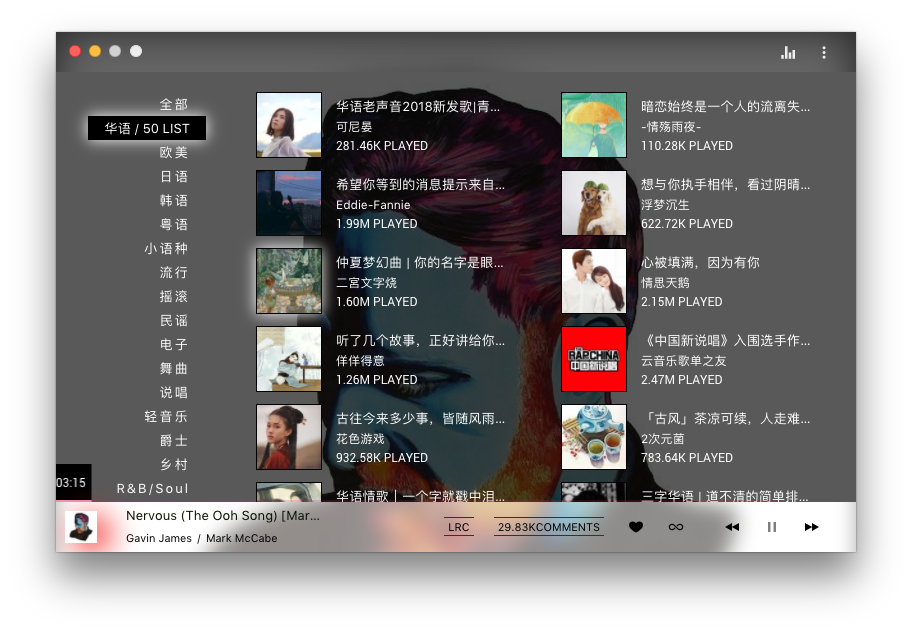
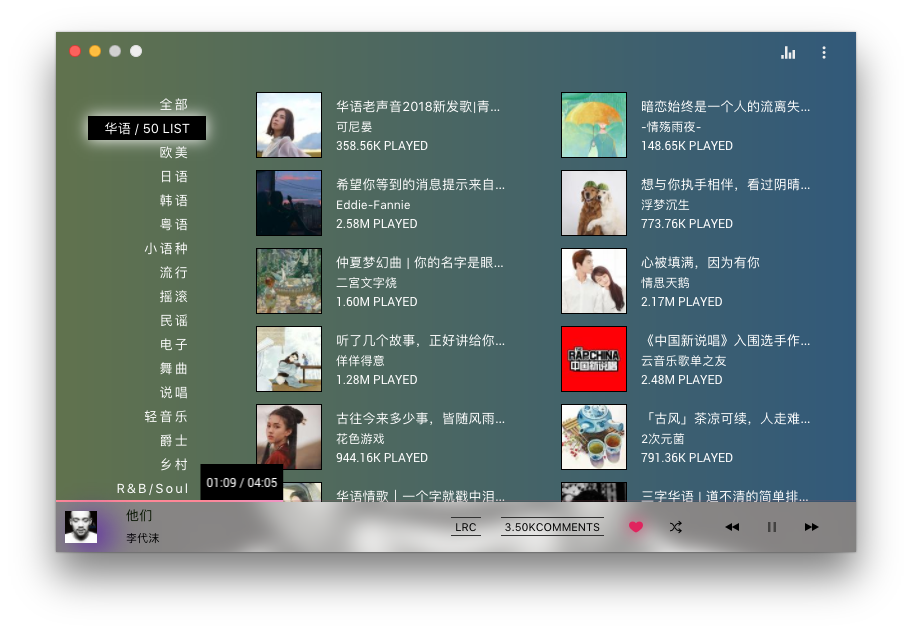
Playlist screen header transparent

diff --git a/src/js/pages/Playlist/index.js b/src/js/pages/Playlist/index.js
@@ -89,11 +89,15 @@ class Playlist extends Component {
         return (
             <div
                 className={classes.container}
-                data-type={encodeURIComponent(params.type)}>
-                <Header {...{
-                    color: 'white',
-                    showBack: true,
-                }} />
+                data-type={encodeURIComponent(params.type)}
+            >
+                <Header
+                    {...{
+                        transparent: true,
+                        showBack: true,
+                    }}
+                />
+
                 <div className={classes.inner}>
                     <Loader show={loading} />
 

diff --git a/src/js/pages/Playlist/classes.js b/src/js/pages/Playlist/classes.js
@@ -21,7 +21,7 @@ function getBackgrounds(theme) {
 
 export default theme => ({
     container: {
-        marginTop: 40,
+        paddingTop: 40,
         background: colors.randomGradient(),
 
         ...getBackgrounds(theme.playlist.backgrounds),
